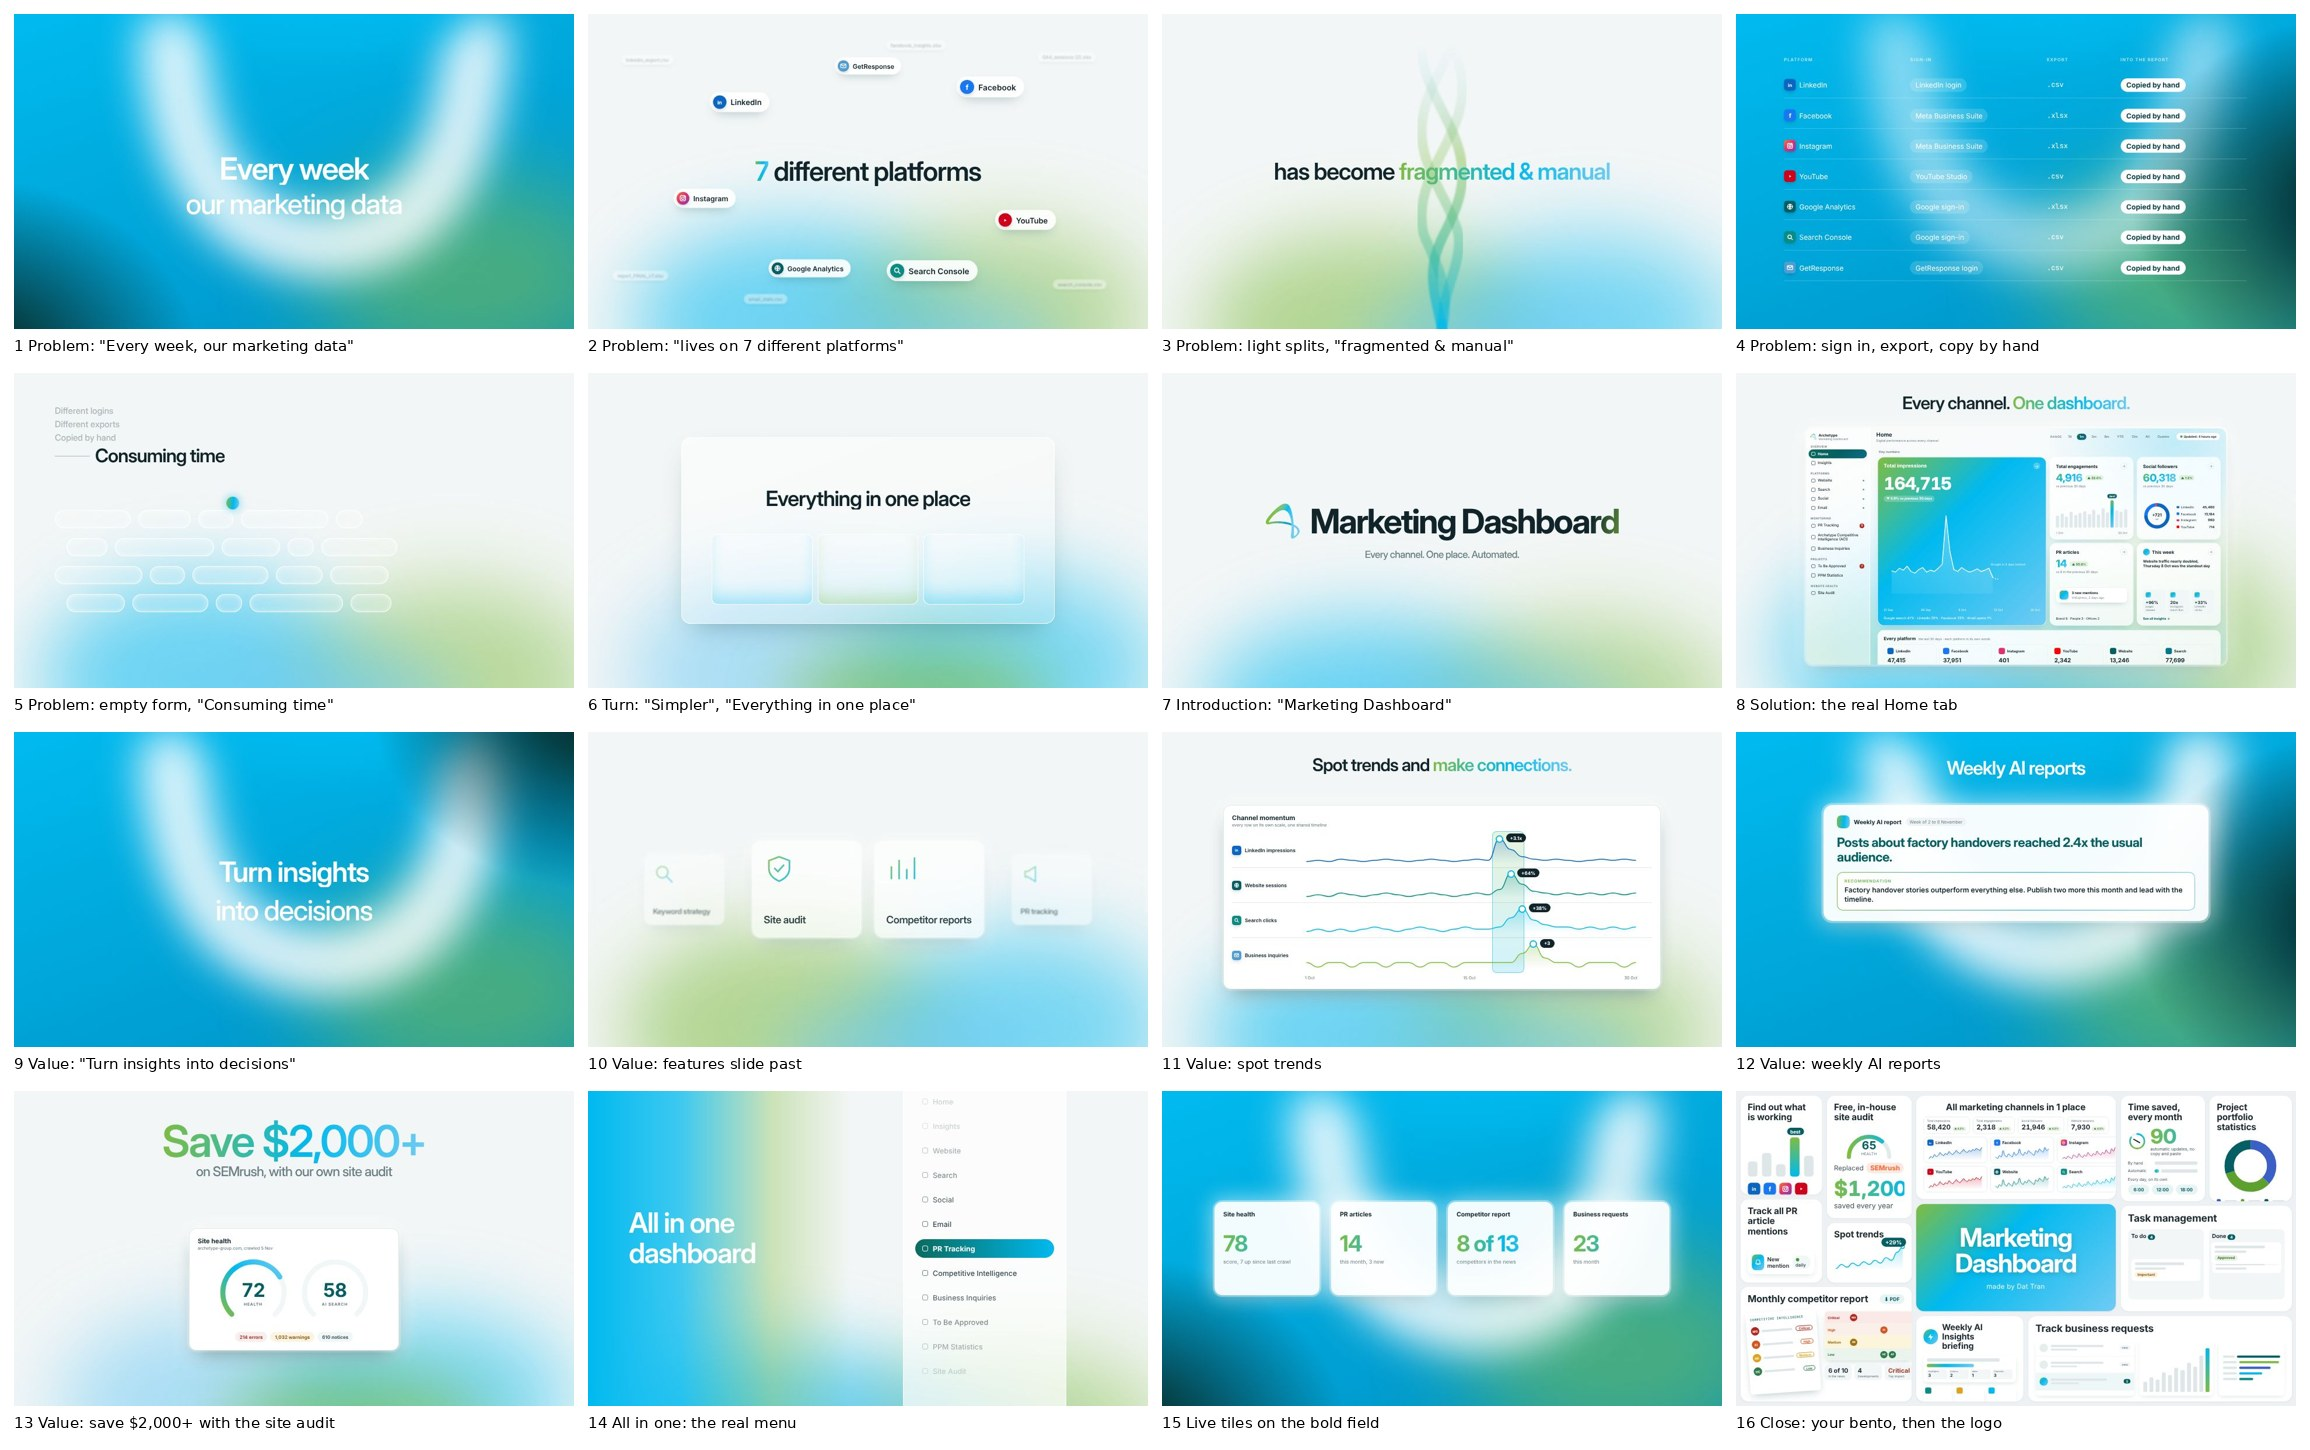
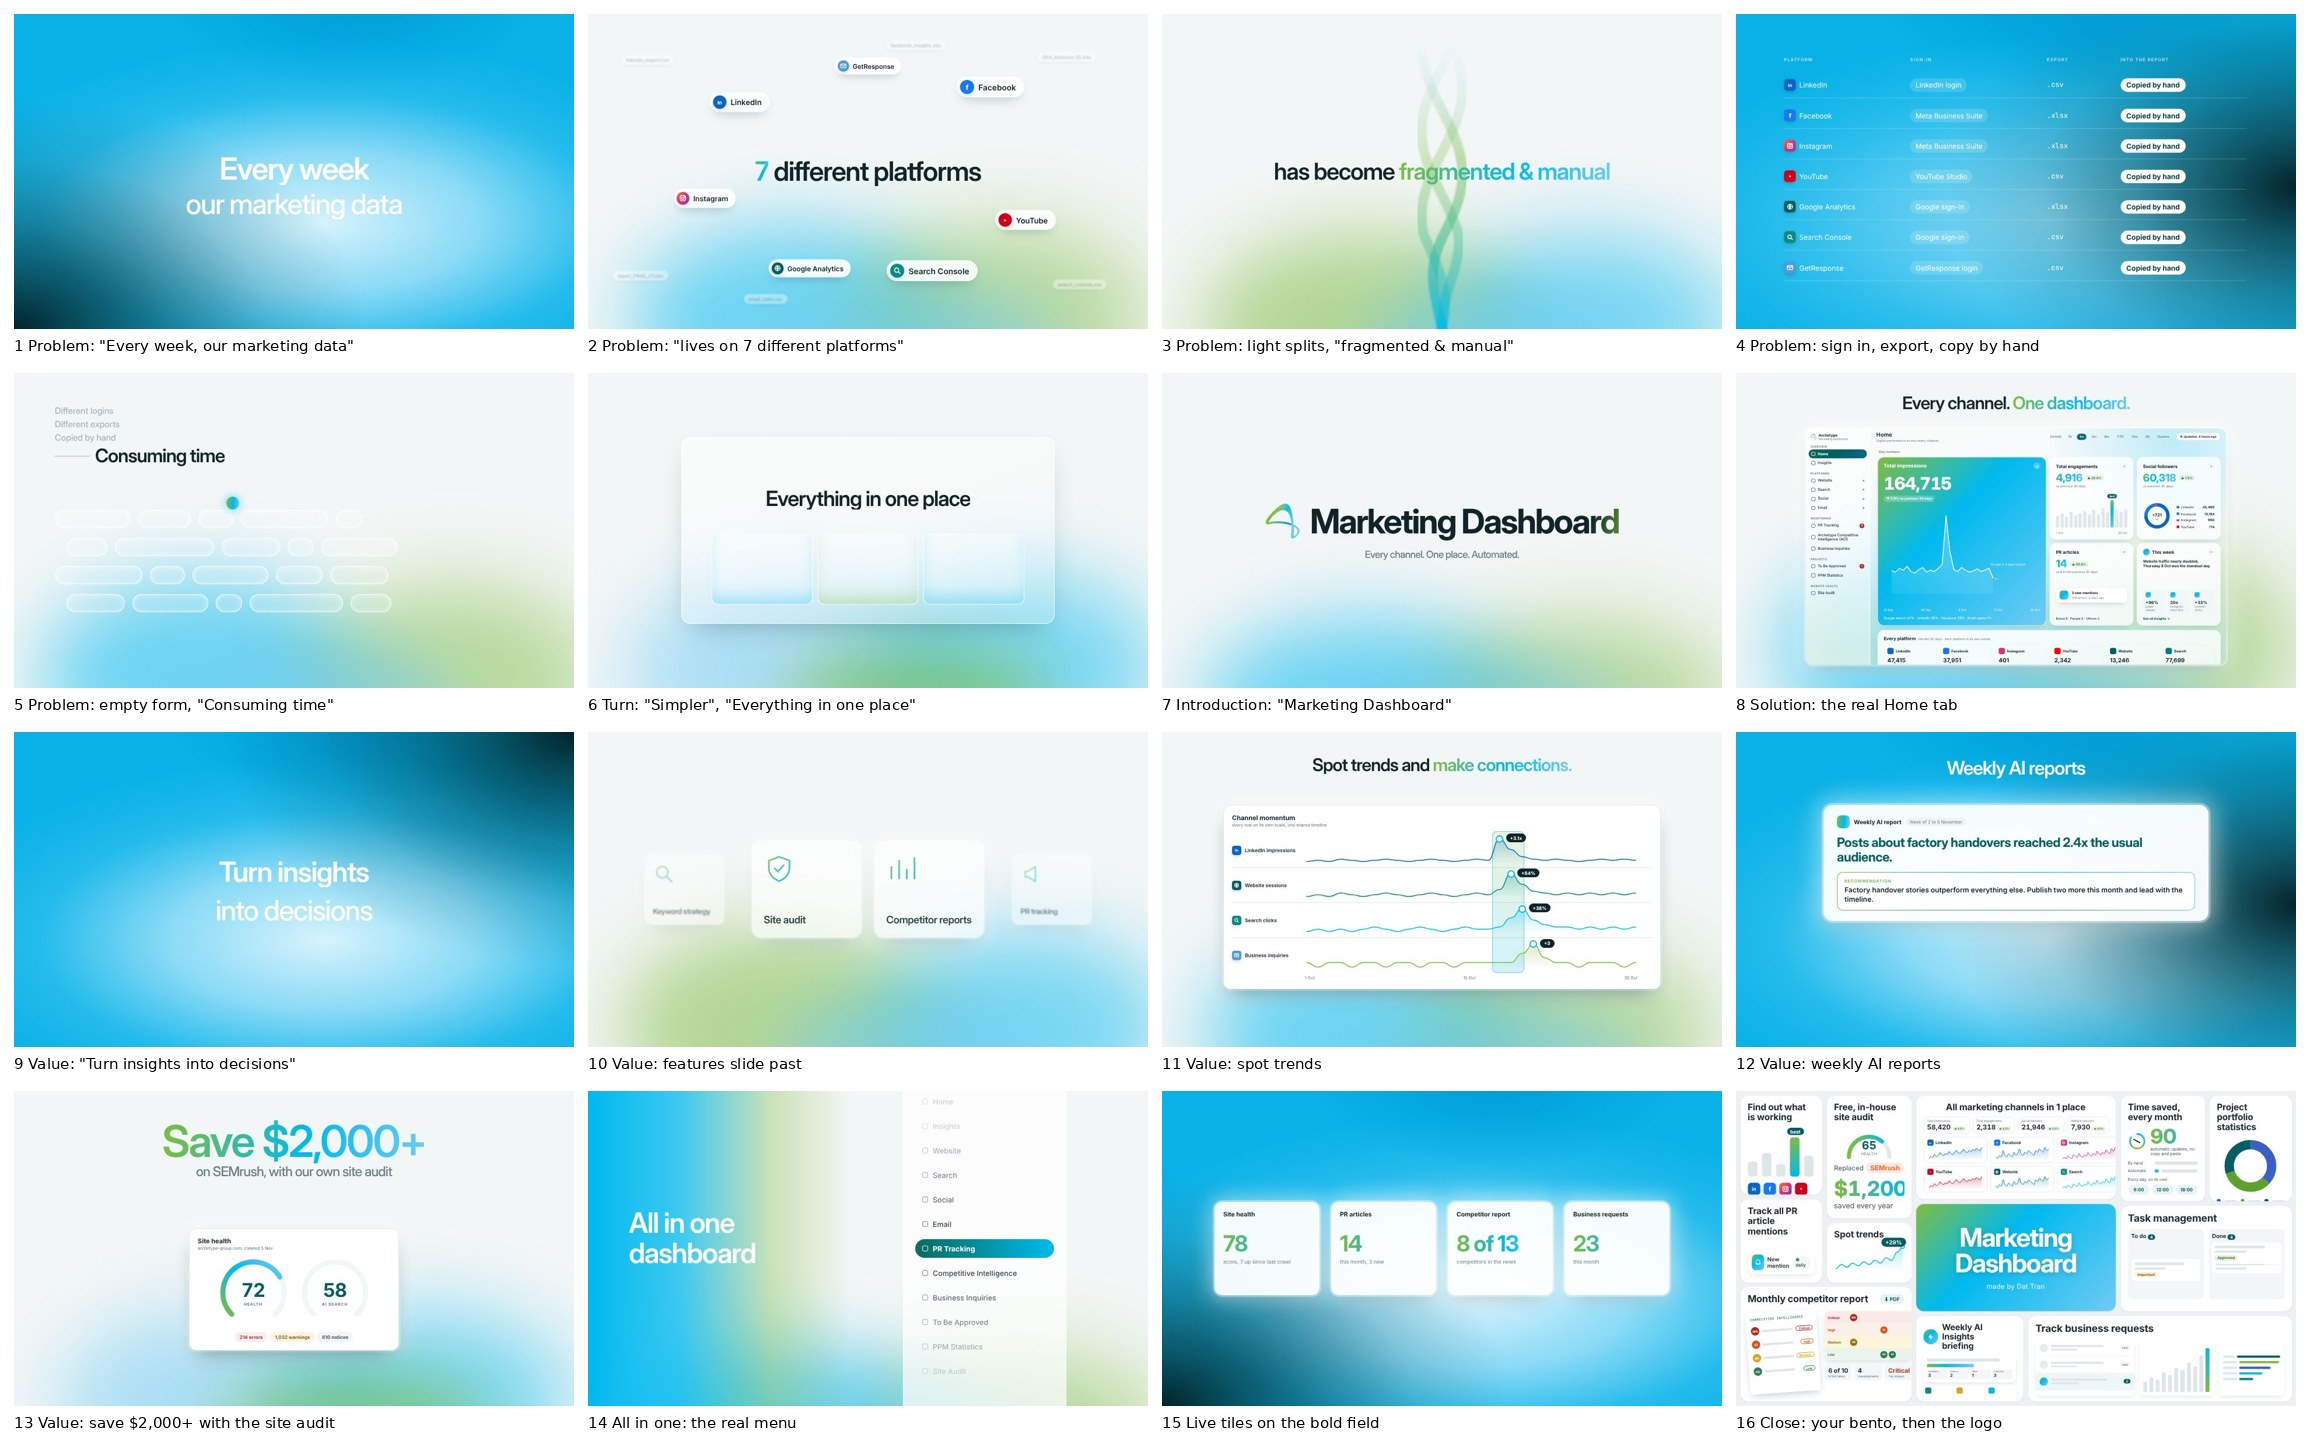
v9 bold field: one hue in three depths, an edgeless pale wash and a soft teal corner, like the reference
Claude-Session: https://claude.ai/code/session_016LuL8XFhqKZ6rAq5NnChvu

diff --git a/launch-video/src/v9/Look.tsx b/launch-video/src/v9/Look.tsx
@@ -28,19 +28,16 @@ export const BoldField: React.FC<{corner?: 0 | 1 | 2; bloom?: number}> = ({corne
   const f = useF();
   const t = f / 30;
   const v = prog(f, 0, 50, E.inOut);
-  const VC: [number, number][] = [[-8, 112], [112, 60], [105, -10]];
+  // one hue in three depths, like the reference: strong cyan, a pale cyan wash with no edges, a near-black teal corner
+  const VC: [number, number][] = [[0, 100], [100, 55], [100, 0]];
   const [vx, vy] = VC[corner];
-  // the white U bloom
-  const ux = 960 + s(t * 0.5) * 120, uy = 330 + c(t * 0.4) * 40;
+  const wx = 50 + s(t * 0.35) * 8, wy = 62 + c(t * 0.3) * 5;
   return (
-    <AbsoluteFill style={{background: `linear-gradient(160deg, ${CY} 0%, ${CYD} 100%)`, overflow: 'hidden'}}>
-      <Blob x={1500 + s(t * 0.3) * 120} y={900} w={1100} h={700} color={GR} blur={160} o={0.55} />
-      <svg width="1920" height="1080" style={{position: 'absolute', filter: 'blur(70px)', opacity: 0.85 * bloom}}>
-        <path d={`M ${ux - 520} ${uy - 260} Q ${ux - 470} ${uy + 420} ${ux} ${uy + 430} Q ${ux + 470} ${uy + 420} ${ux + 520} ${uy - 260}`} fill="none" stroke="#fff" strokeWidth={230} strokeLinecap="round" />
-      </svg>
-      <Blob x={960 + c(t * 0.35) * 200} y={-60} w={900} h={360} color={CY} blur={80} o={0.9} />
-      <AbsoluteFill style={{background: `radial-gradient(1100px 900px at ${vx + (corner === 0 ? -20 : 20) * (1 - v)}% ${vy}%, #021f24 0%, ${TEALD} 22%, rgba(4,63,69,.6) 42%, transparent 72%)`, opacity: 1}} />
-      <Grain o={0.07} />
+    <AbsoluteFill style={{background: '#08aee6', overflow: 'hidden'}}>
+      <AbsoluteFill style={{background: `radial-gradient(82% 66% at ${wx}% ${wy}%, rgba(220,245,253,${0.97 * bloom}) 0%, rgba(165,228,250,${0.8 * bloom}) 34%, rgba(70,200,243,.42) 62%, rgba(8,174,230,0) 88%)`}} />
+      <AbsoluteFill style={{background: `radial-gradient(45% 40% at ${50 + c(t * 0.25) * 12}% -6%, rgba(0,150,214,.95) 0%, rgba(0,160,220,.5) 45%, transparent 75%)`}} />
+      <AbsoluteFill style={{background: `radial-gradient(78% 92% at ${vx + (vx < 50 ? -14 : 14) * (1 - v)}% ${vy}%, rgba(1,26,31,.95) 0%, rgba(3,52,59,.8) 16%, rgba(3,60,70,.45) 38%, rgba(3,60,70,.16) 58%, transparent 80%)`}} />
+      <Grain o={0.14} />
     </AbsoluteFill>
   );
 };
